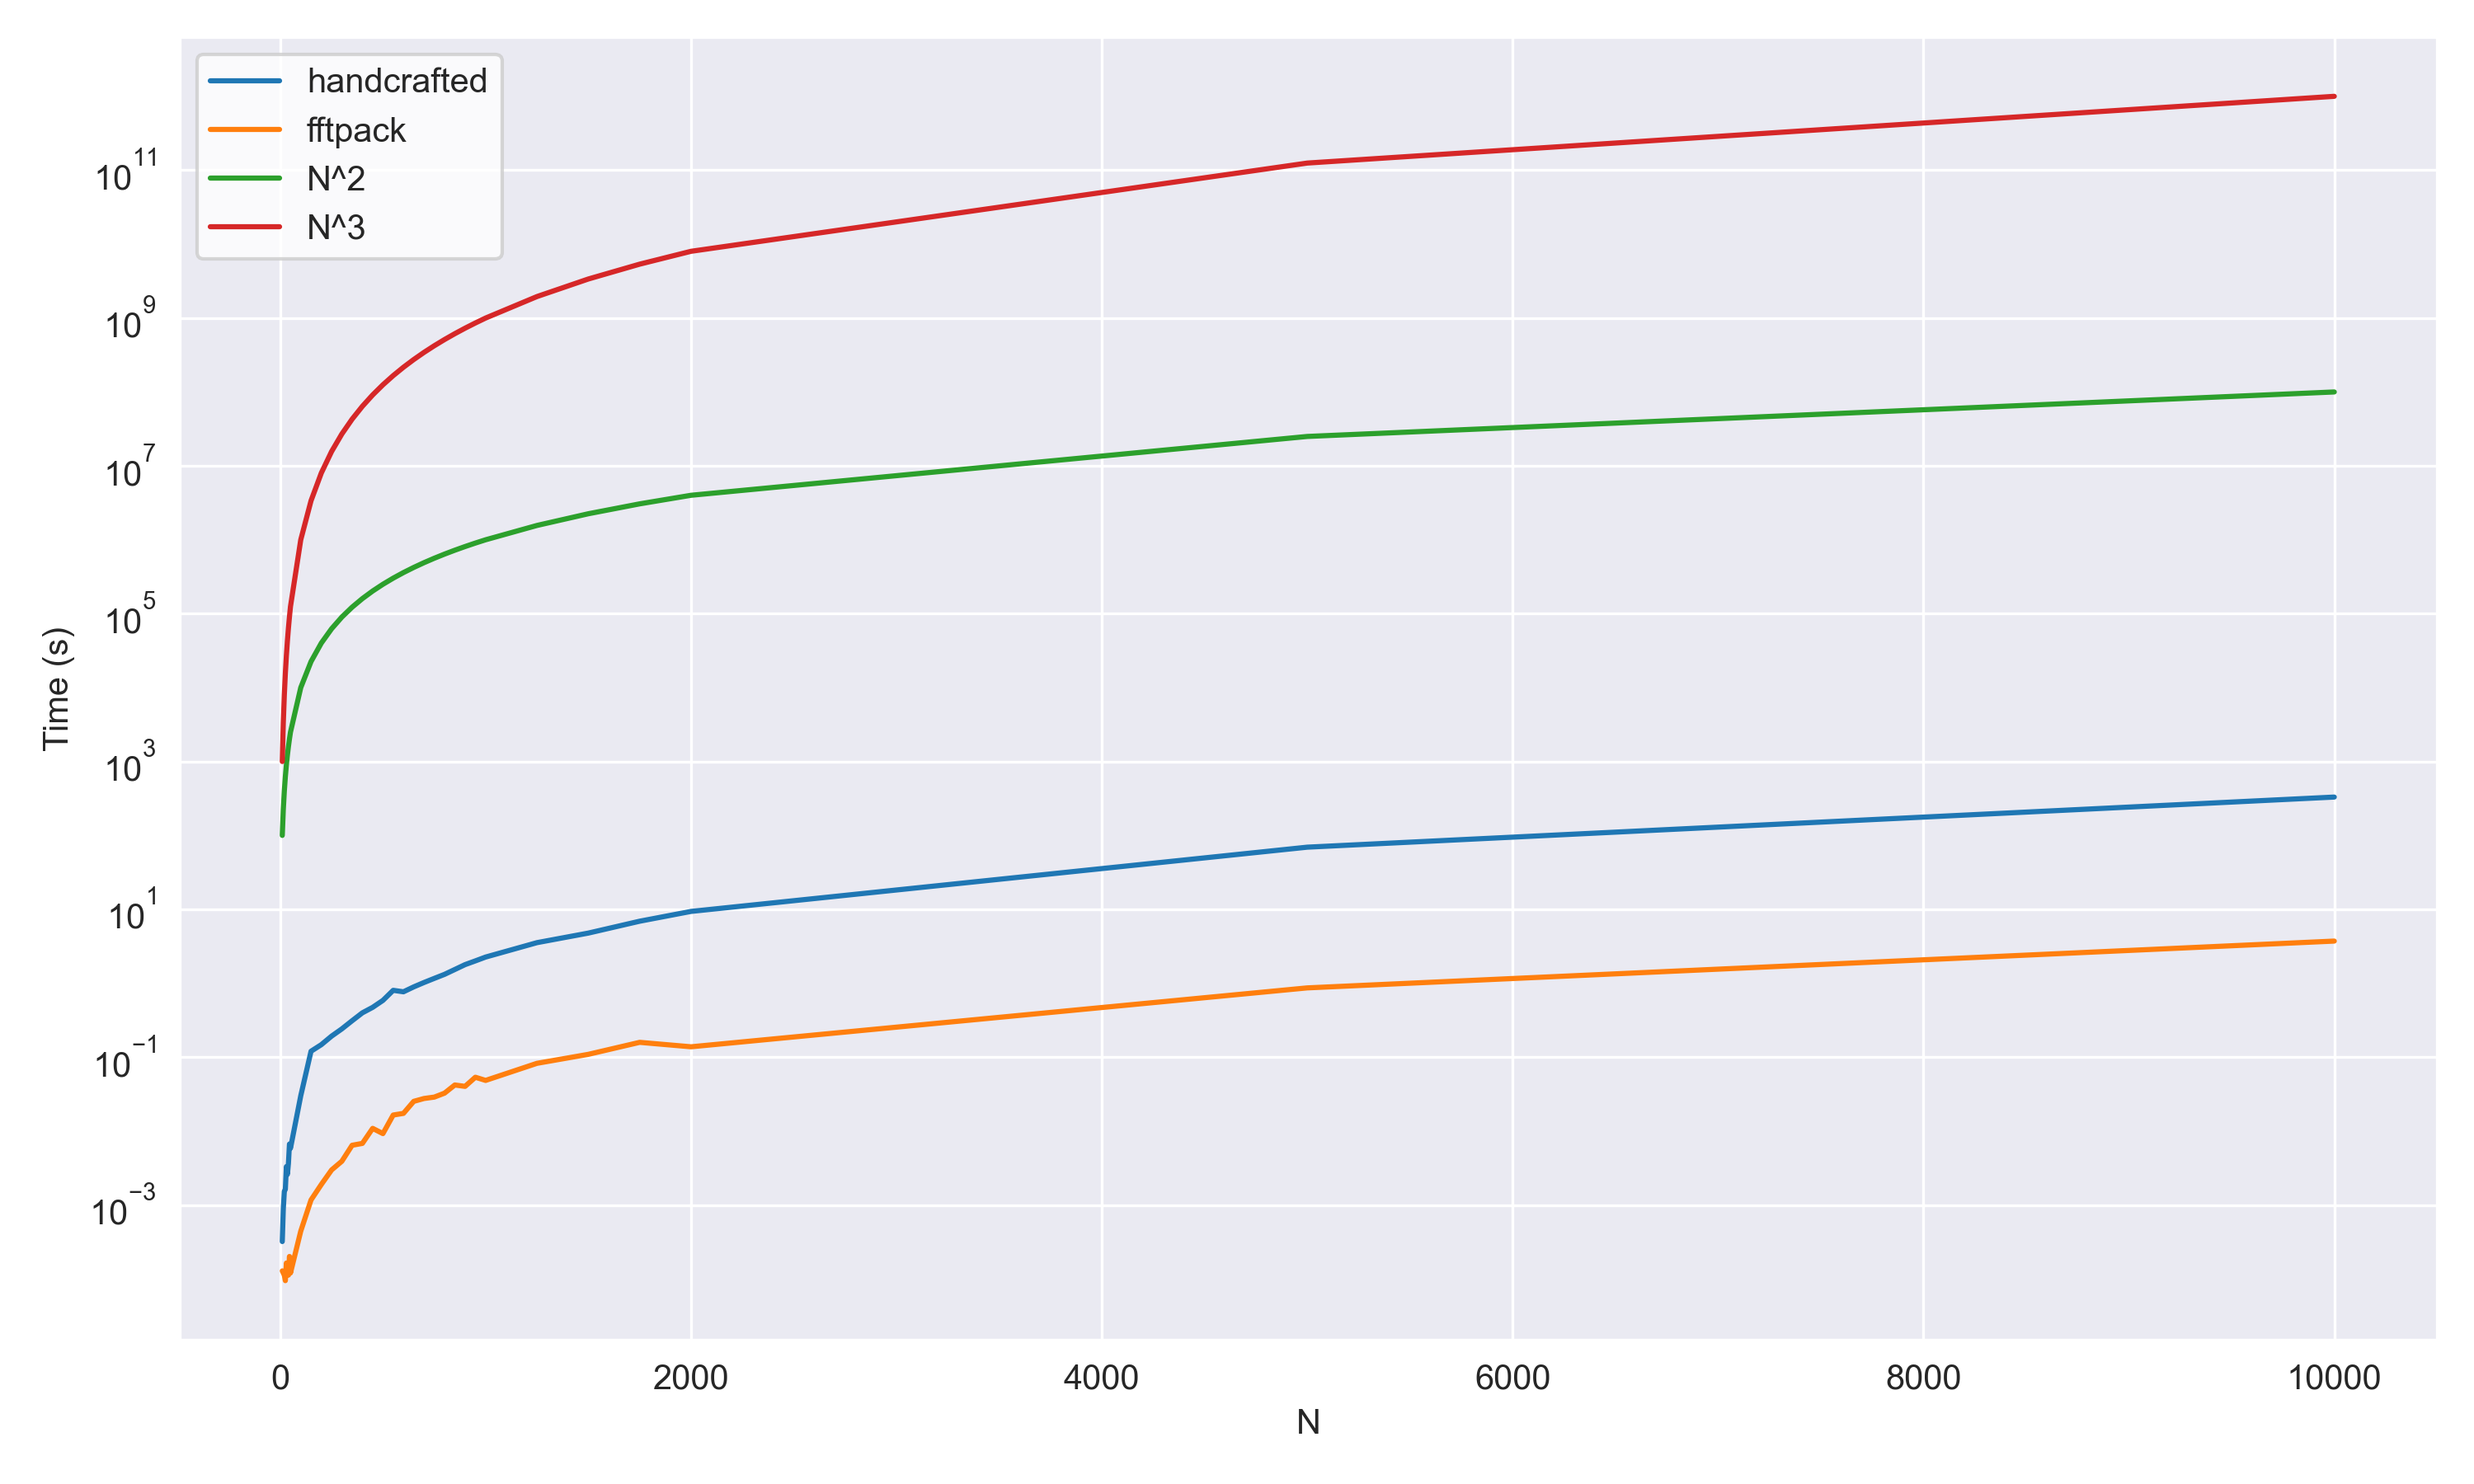
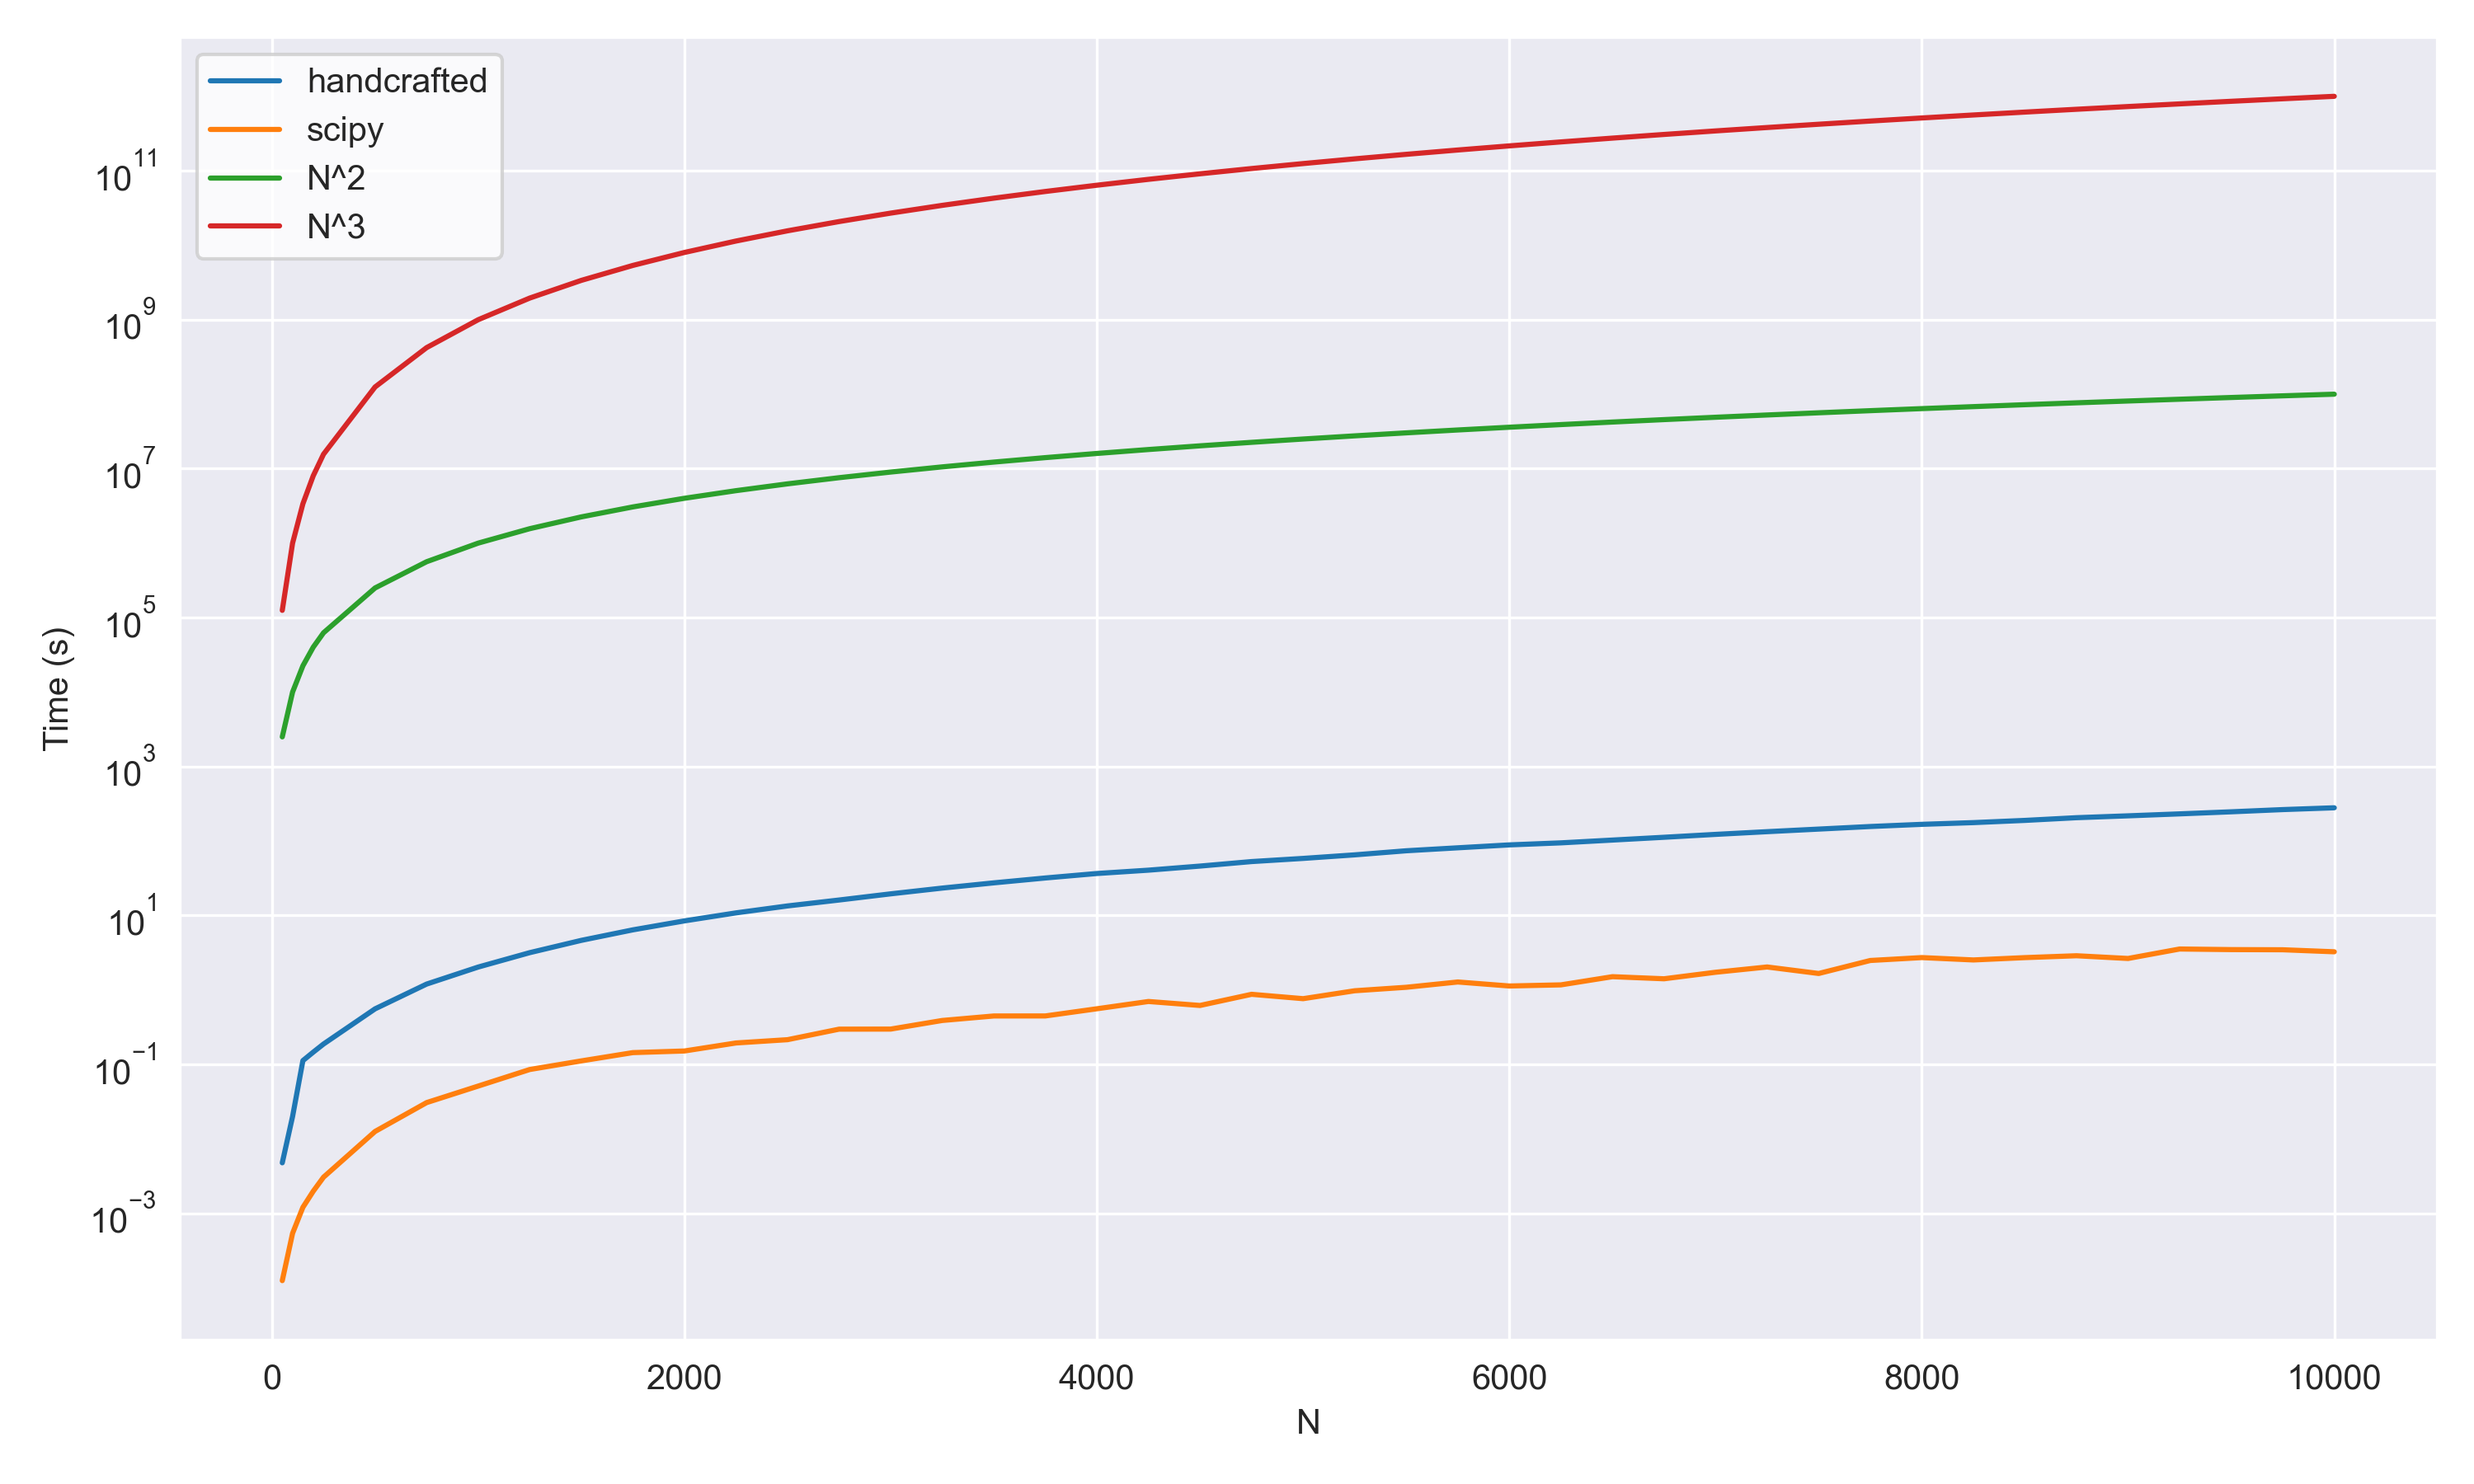
recompute results

diff --git a/part1.py b/part1.py
@@ -5,16 +5,14 @@ import numpy as np
 import pandas as pd
 import seaborn as sns
 import matplotlib.pyplot as plt
-
 from scipy import fft
+
 from dct.dct import dct2
 
 sizes = np.concatenate(
     [
-        np.arange(10, 50, 5),
-        np.arange(50, 1001, 50),
-        np.arange(1000, 2001, 250),
-        np.array([5000, 10000]),
+        np.array([50, 100, 150, 200]),
+        np.arange(250, 10001, 250),
     ]
 )
 
